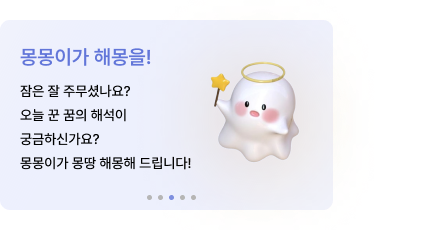
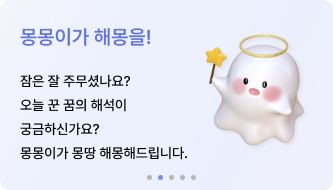
chore: 홈 화면 베너 코드 수정

diff --git a/src/pages/home/component/Banner.tsx b/src/pages/home/component/Banner.tsx
@@ -1,9 +1,29 @@
 import styled from "styled-components";
 import Banner_1 from "../../../shared/images/Property 1=1.png";
+import Banner_2 from "../../../shared/images/Property 1=2.png";
+import Banner_3 from "../../../shared/images/Property 1=3.png";
+import Banner_4 from "../../../shared/images/Property 1=4.png";
+import Banner_5 from "../../../shared/images/Property 1=5.png";
+import { useState, useEffect } from "react";
+
 const Banner = () => {
+  const [currentIndex, setCurrentIndex] = useState(0);
+  const banners = [Banner_1, Banner_2, Banner_3, Banner_4, Banner_5];
+  useEffect(() => {
+    const interval = setInterval(() => {
+      setCurrentIndex((prevIndex) => (prevIndex + 1) % banners.length);
+    }, 5000); // 5초마다 슬라이드 변경
+
+    return () => clearInterval(interval); // 컴포넌트가 unmount 될 때 interval 해제
+  }, []);
+
   return (
     <Container>
-      <img src={Banner_1} />
+      <Slider style={{ transform: `translateX(-${currentIndex * 100}%)` }}>
+        {banners.map((banner, index) => (
+          <img key={index} src={banner} alt={`banner ${index + 1}`} />
+        ))}
+      </Slider>
     </Container>
   );
 };
@@ -15,5 +35,17 @@ const Container = styled.div`
   height: 189px;
   flex-shrink: 0;
   border-radius: 10px;
-  background: #b6b6b6;
+  overflow: hidden;
+`;
+const Slider = styled.div`
+  display: flex;
+  transition: transform 0.5s ease-in-out;
+  width: 100%;
+
+  img {
+    width: 100%;
+    height: 100%;
+    object-fit: cover;
+    border-radius: 10px;
+  }
 `;

diff --git a/src/pages/detail/Detail.tsx b/src/pages/detail/Detail.tsx
@@ -19,7 +19,7 @@ function Detail() {
 
   const handleClick = () => {
     //해몽 페이지 이동 변경
-    navigate("/");
+    navigate("/interpret");
   };
 
   const {